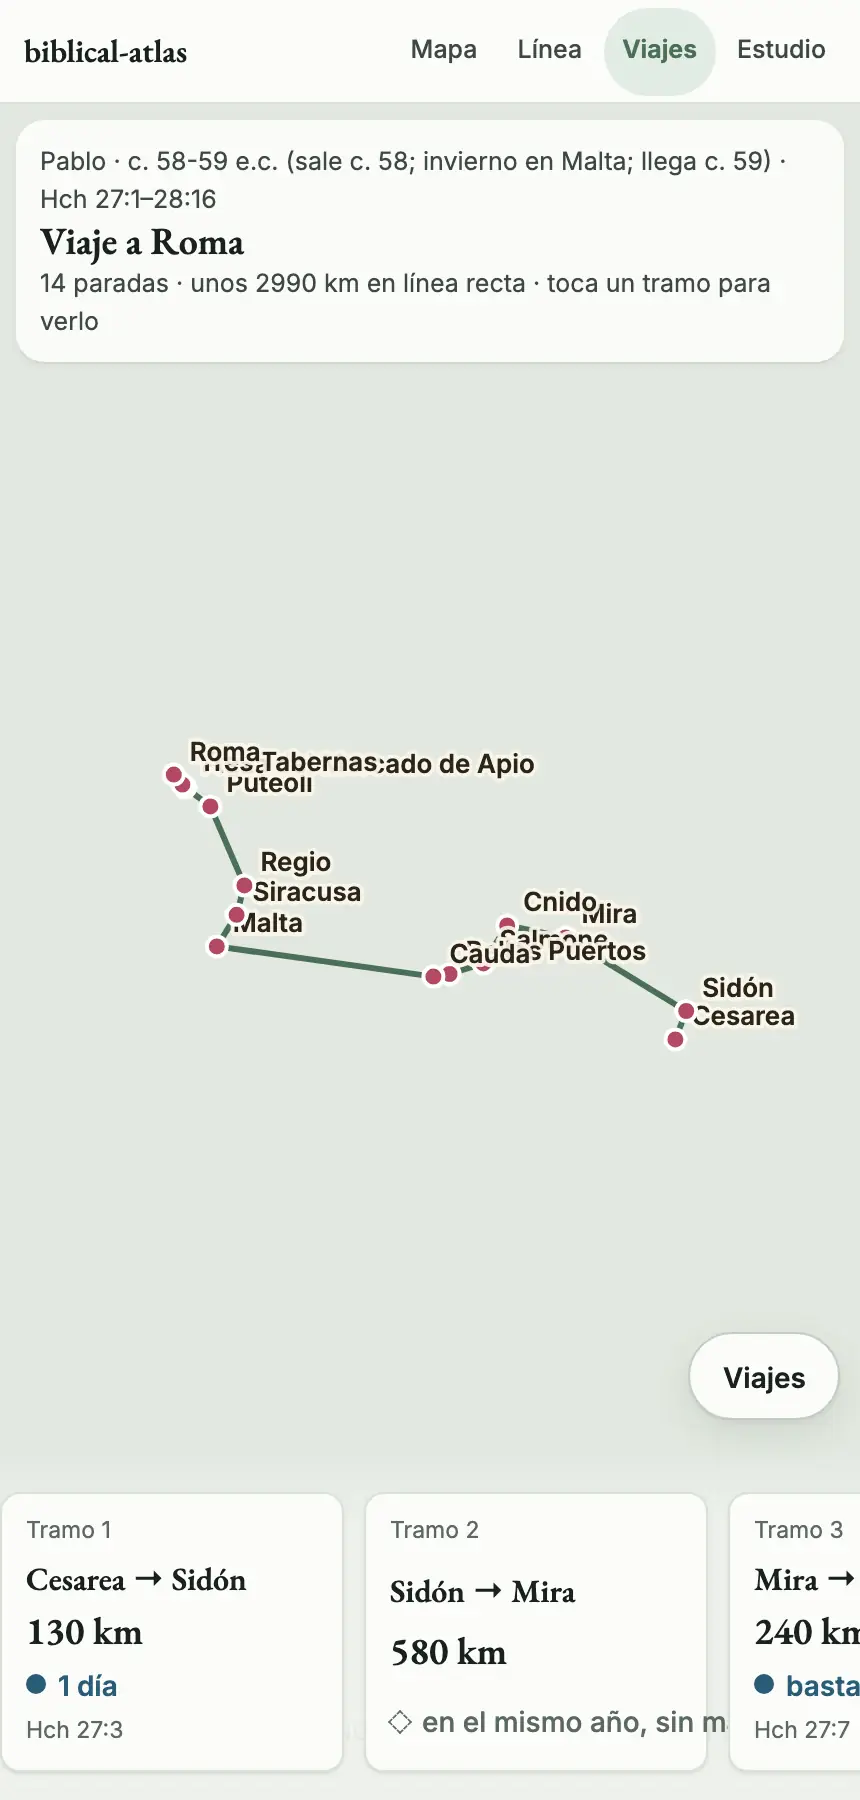
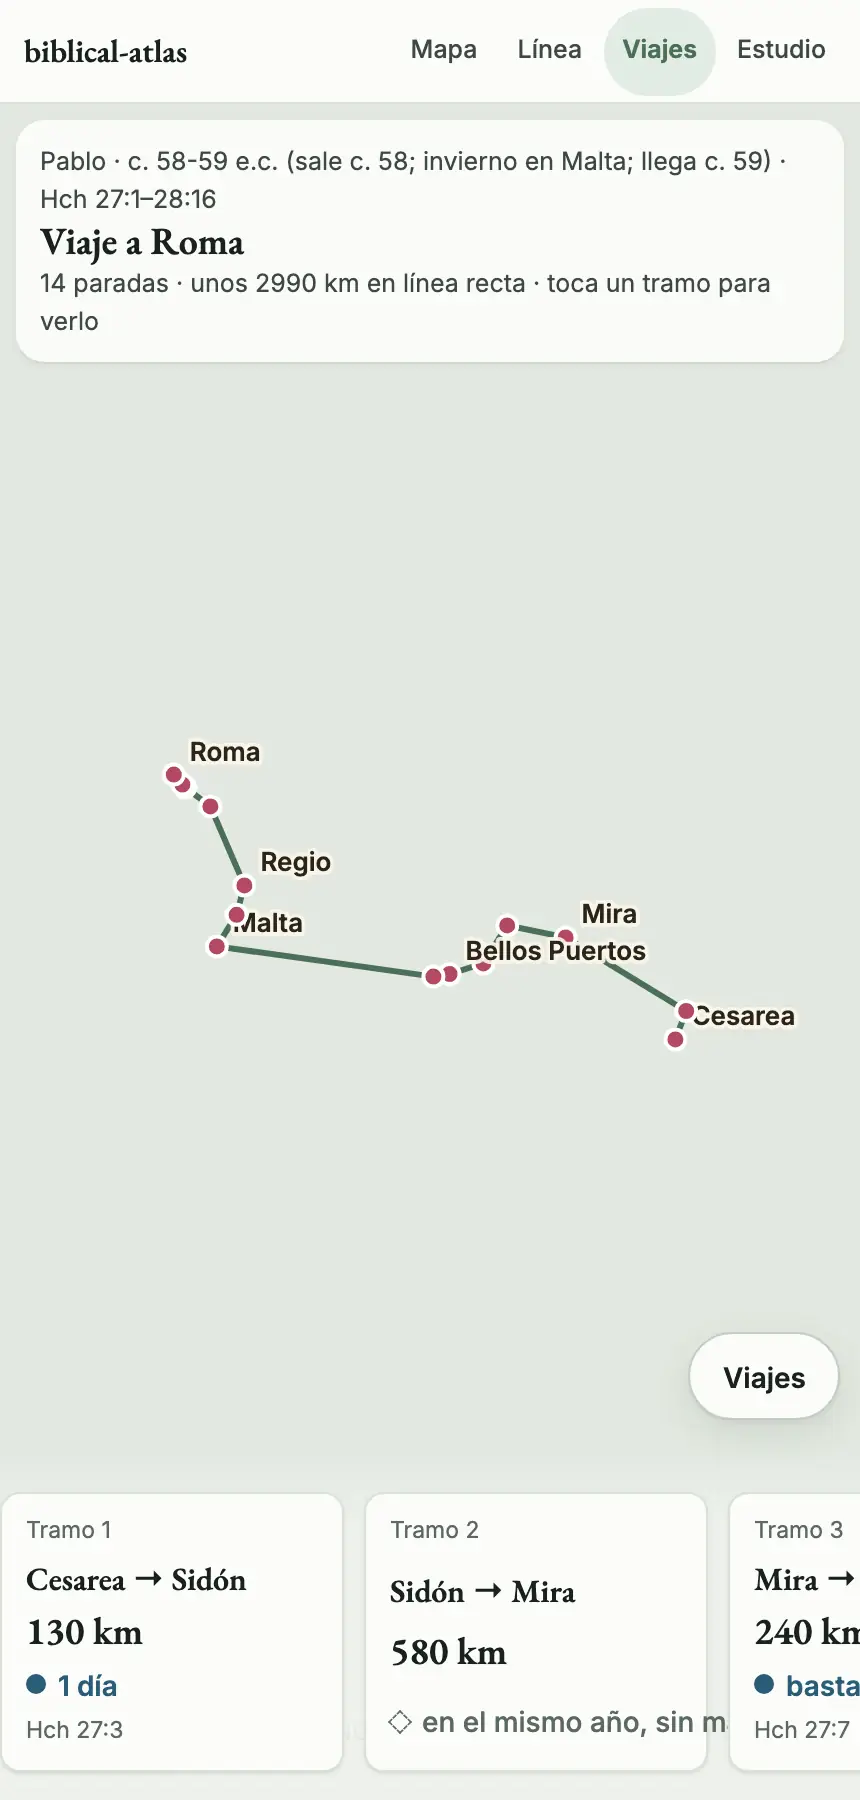
fix(ideas): el viaje entero en los prototipos calla los nombres que pisarían otro, y viajes-seccion dice que el viaje a Roma no cabe en ningún fondo de relieve

Changed region(s): [[0.2419, 0.4044, 0.6349, 0.4978], [0.5442, 0.4978, 0.6953, 0.56], [0.8163, 0.5289, 0.907, 0.56]]

diff --git a/docs/ideas/mockups/viajes/comun.js b/docs/ideas/mockups/viajes/comun.js
@@ -91,11 +91,22 @@ function mapa(el, v, k = null, { etiquetas = true, compacto = false, margen = [0
   const estilo = (x) => (x.A.p || x.B.p ? ' vj-ruta--pend' : x.A.i || x.B.i ? ' vj-ruta--inc' : '');
   const rutas = legs.map((x) => `<path class="vj-ruta${leg ? (x.i === k ? ' vj-ruta--foco' : ' vj-ruta--resto') : ''}${estilo(x)}" d="${linea(x)}"${x.i === k ? ' marker-end="url(#vj-flecha)"' : ''}/>`).join('');
   const marcados = leg ? new Set([leg.a, leg.b]) : new Set(v.s.map((x) => x.o));
-  const vistos = new Set();
-  const puntos = v.s.filter((x) => x.c).map((x) => {
-    const [a, b] = P(x.c), on = marcados.has(x.o);
-    const clave = x.l || x.n, rot = etiquetas && on && !vistos.has(clave) && (leg || !compacto);
-    if (rot) vistos.add(clave);
+  const vistos = new Set(), cajas = [];
+  // En el viaje entero, un nombre que pisaría otro ya puesto se calla; el punto se queda. La caja se estima a 7 px por letra.
+  const libre = (a, b, n) => {
+    const c = [a + 8, b - 19, a + 8 + n.length * 7, b - 3];
+    if (!leg && cajas.some((o) => c[0] < o[2] && o[0] < c[2] && c[1] < o[3] && o[1] < c[3])) return false;
+    cajas.push(c);
+    return true;
+  };
+  const conPunto = v.s.filter((x) => x.c), rotulos = new Set();
+  // La salida y la llegada se rotulan antes que las paradas de en medio, para que no las calle un nombre vecino.
+  for (const x of new Set([conPunto[0], conPunto[conPunto.length - 1], ...conPunto])) {
+    const [a, b] = P(x.c), clave = x.l || x.n;
+    if (etiquetas && marcados.has(x.o) && !vistos.has(clave) && (leg || !compacto) && libre(a, b, x.n)) { vistos.add(clave); rotulos.add(x); }
+  }
+  const puntos = conPunto.map((x) => {
+    const [a, b] = P(x.c), on = marcados.has(x.o), rot = rotulos.has(x);
     return `<g class="vj-pt${on ? ' vj-pt--on' : ''}"><circle cx="${a.toFixed(1)}" cy="${b.toFixed(1)}" r="${on ? 5 : 3}"/>${rot ? `<text x="${(a + 8).toFixed(1)}" y="${(b - 7).toFixed(1)}">${esc(x.n)}</text>` : ''}</g>`;
   }).join('');
   el.innerHTML = `${f ? `<img class="vj-mapa__fondo" alt="" src="${fondo(f.id)}" style="transform:translate(${tx.toFixed(1)}px,${ty.toFixed(1)}px) scale(${s.toFixed(4)})">` : '<div class="vj-mapa__papel"></div>'}

diff --git a/docs/ideas/viajes-seccion.md b/docs/ideas/viajes-seccion.md
@@ -119,11 +119,11 @@ En cifras: 20 controles y 291 palabras en la primera pantalla del ordenador, 15 
 
 **La primera visita.** Una caja ([en el ordenador](img/viajes/mapa-guia-1440.webp), [en el teléfono](img/viajes/mapa-guia-430.webp)) con tres pasos y «Empezar con el viaje a Roma», y dos avisos junto a la tira y al mapa. Dos pulsaciones hasta un tramo.
 
-**A qué renuncia.** No hay totales ni acumulados, y no se imprime. La tira enseña cuatro o cinco tramos y el resto queda a un desplazamiento de lado. En el teléfono la lista está tras un botón. La caja del tramo puede tapar una parada: en la captura del ordenador tapa el nombre de Puteoli, y en el sitio el encuadre tendría que descontarla.
+**A qué renuncia.** No hay totales ni acumulados, y no se imprime. La tira enseña cuatro o cinco tramos y el resto queda a un desplazamiento de lado. En el teléfono la lista está tras un botón. La caja del tramo puede tapar una parada: en la captura del ordenador tapa el nombre de Puteoli, y en el sitio el encuadre tendría que descontarla. El viaje a Roma entero no cabe en ningún fondo de relieve del prototipo, porque Roma queda en el borde del más ancho, así que [esa vista](img/viajes/mapa-lista-1440.webp) se pinta sobre papel liso y calla los nombres que pisarían otro; en el sitio, MapLibre no tiene ese límite.
 
 **Qué cuesta.** Alto. En el sitio, el mapa es MapLibre y no una imagen: hace falta un modo del mapa que dibuje un viaje fuera de su fecha y encuadre un tramo, y una tira nueva.
 
-En cifras: 21 controles y 333 palabras en la primera pantalla del ordenador, 8 y 109 en el teléfono ([la lista](img/viajes/mapa-lista-430.webp)). Con un tramo abierto, 13 y 170 en el ordenador.
+En cifras: 21 controles y 324 palabras en la primera pantalla del ordenador, 8 y 96 en el teléfono ([la lista](img/viajes/mapa-lista-430.webp)). Con un tramo abierto, 13 y 170 en el ordenador.
 
 ### 4. [El viaje en una línea](mockups/viajes/esquema/index.html)
 
